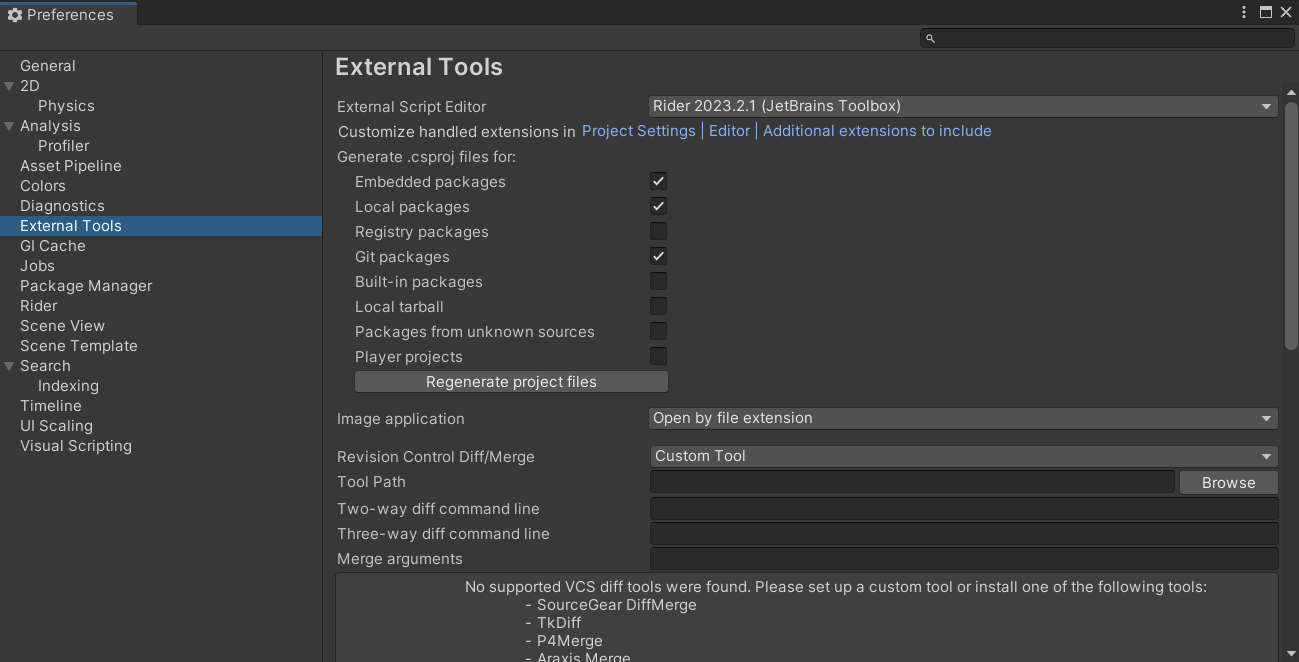
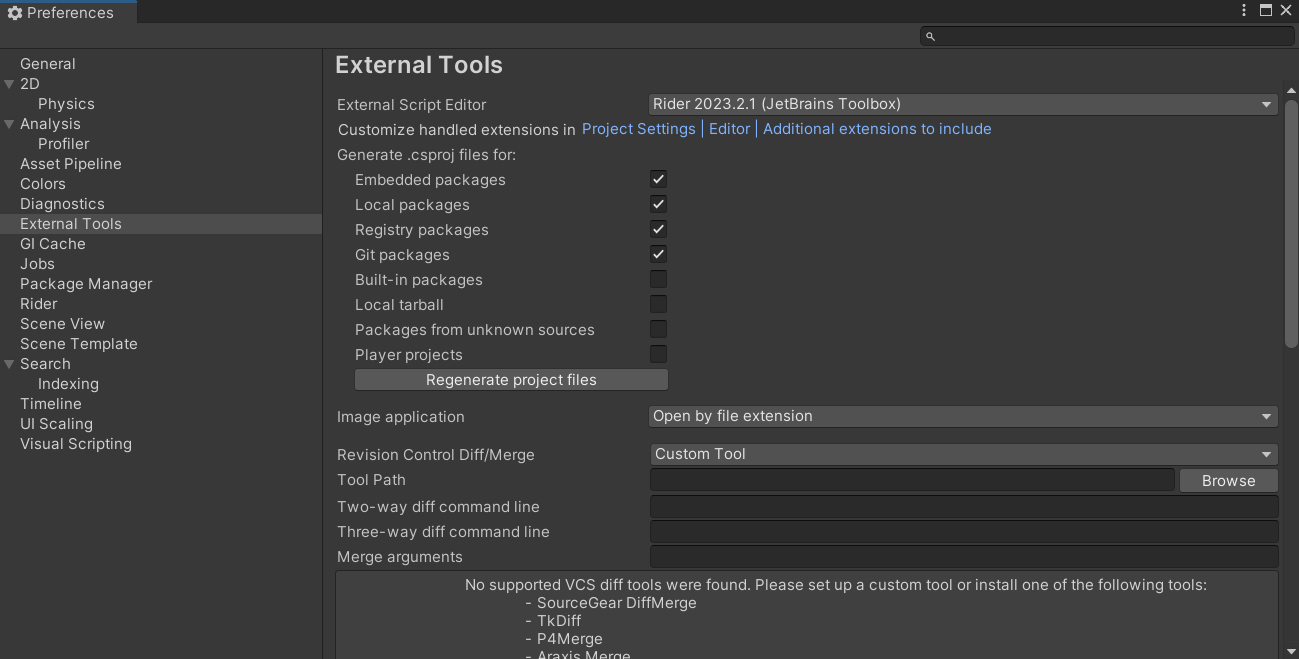
Added new Input System

diff --git a/README.md b/README.md
@@ -51,8 +51,9 @@ Note: You may need to restart your computer.
 ### Setting your code editor in the project
 
 1. Go to Edit > Preferences (macOS: Unity > Settings)
-2. Go to External Script Editor
+2. Go to External tools
 3. Set your external script editor to whichever one you prefer
+4. Make sure the 4 first checkboxes are checked
 
 ![](./ReadmeImages/ExternalScriptEditor.png)
 
